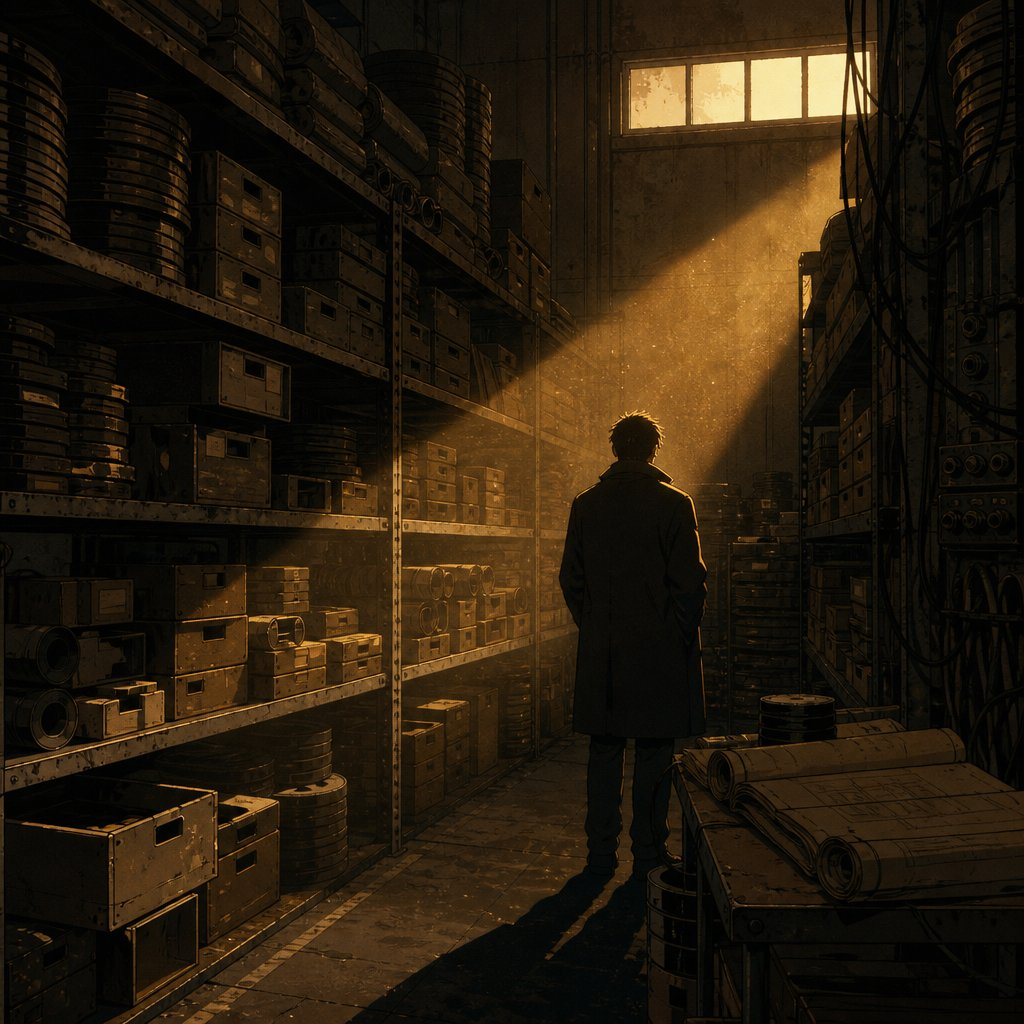
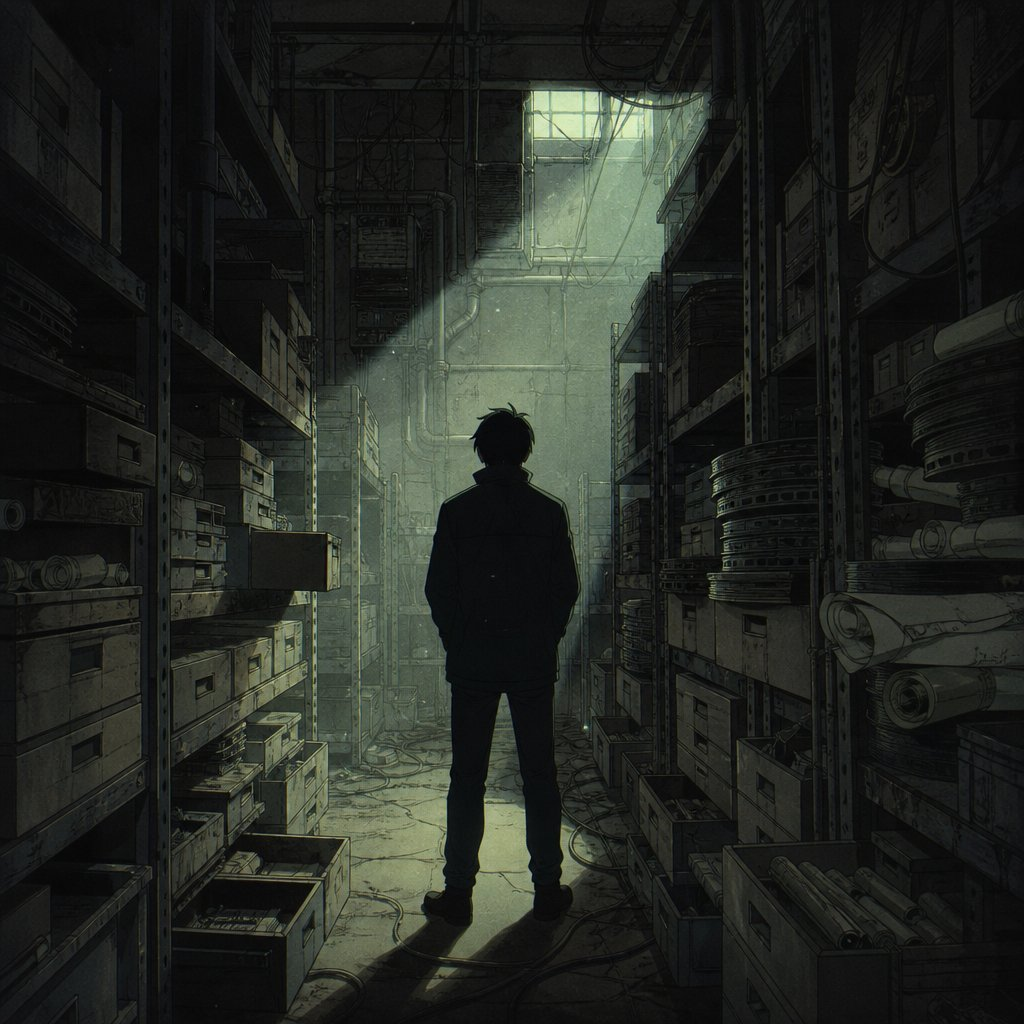
fix(unidad-2): guarda de PROHIBIDOS por limites de palabra, alt de las 7 laminas y paletas de eda/archivo sin competir con paginas vecinas

diff --git a/tools/test_ilustraciones.py b/tools/test_ilustraciones.py
@@ -5,6 +5,7 @@ representar a una persona real, a un rostro reconocible ni a un personaje con
 derechos.
 """
 import json
+import re
 from pathlib import Path
 
 from PIL import Image
@@ -63,10 +64,30 @@ def test_dimensiones_y_peso():
         assert ruta.stat().st_size < 400_000, f"{ruta.name} pesa demasiado"
 
 
+def _menciona(termino, texto):
+    """Coincidencia por limites de palabra: evita falsos positivos como
+    'mario' dentro de 'armario' o 'lain' dentro de 'polaina'."""
+    return re.search(rf"\b{re.escape(termino)}\b", texto) is not None
+
+
 def test_ningun_prompt_pide_persona_real_o_personaje_protegido():
     texto = json.dumps(catalogo(), ensure_ascii=False).lower()
     for termino in PROHIBIDOS:
-        assert termino not in texto, f"el catalogo menciona '{termino}'"
+        assert not _menciona(termino, texto), f"el catalogo menciona '{termino}'"
+
+
+def test_la_guarda_de_prohibidos_no_dispara_con_subcadenas_inocentes():
+    texto = "un armario metalico y unas polainas de cuero en el taller"
+    for termino in PROHIBIDOS:
+        assert not _menciona(termino, texto), (
+            f"'{termino}' disparo un falso positivo contra texto inocente"
+        )
+
+
+def test_la_guarda_de_prohibidos_si_dispara_con_una_obra_prohibida():
+    texto = "una escena inspirada en ghost in the shell"
+    disparo = any(_menciona(termino, texto) for termino in PROHIBIDOS)
+    assert disparo, "la guarda no detecto una obra prohibida citada de verdad"
 
 
 def test_ningun_prompt_pide_una_figura_humana_identificable():

diff --git a/course/2_pipeline_de_datos/_assets/CREDITOS.md b/course/2_pipeline_de_datos/_assets/CREDITOS.md
@@ -16,9 +16,10 @@ bordes duros, grano de película, aberración cromática leve y una sola fuente
 de luz dramática por lámina, con las figuras siempre de espaldas o en silueta,
 nunca de frente— pero **cada una lleva su propia paleta**, para que ninguna
 página se confunda con otra: verde terminal y ámbar en la portada, azul
-medianoche y turquesa en el viaje, magenta y violeta en ETL/ELT, cian de
-laboratorio en el EDA, rojo de alarma sobre gris hierro en la ruptura, latón y
-cobre en los oficios, sepia y ocre en el archivo.
+medianoche y turquesa en el viaje, magenta y violeta en ETL/ELT, blanco
+clínico y gris acero casi monocromo con un solo acento ámbar en el EDA, rojo
+de alarma sobre gris hierro en la ruptura, latón y cobre en los oficios, gris
+polvo y verde desvaído de fluorescente viejo en el archivo.
 
 **Ninguna ilustración representa personas reales, rostros reconocibles ni
 personajes con derechos**: todas son escenas industriales abstractas y
@@ -37,7 +38,7 @@ personajes con derechos**: todas son escenas industriales abstractas y
 | ilus-portada.jpg | Verde terminal y ámbar sobre una ciudad nocturna: un grafo de nodos luminosos que se bifurca y reconverge, no una tubería | Generada con gpt-image-2 a partir de `tools/ilustraciones.json` | Material del curso |
 | ilus-viaje.jpg | Azul medianoche y turquesa: cuatro edificios-depósito de arquitectura distinta, el mismo caudal de luz entrando de forma diferente en cada uno | Generada con gpt-image-2 a partir de `tools/ilustraciones.json` | Material del curso |
 | ilus-etl-elt.jpg | Magenta y violeta sobre carbón: un cruce de neón con dos rutas espejadas que recorren las mismas tres estaciones en orden invertido | Generada con gpt-image-2 a partir de `tools/ilustraciones.json` | Material del curso |
-| ilus-eda.jpg | Cian frío y blanco azulado: una figura de espaldas ante un muro de monitores CRT, midiendo antes de decidir | Generada con gpt-image-2 a partir de `tools/ilustraciones.json` | Material del curso |
+| ilus-eda.jpg | Blanco clínico y gris acero casi monocromo, con un solo acento ámbar en las lecturas: una figura de espaldas ante un muro de monitores CRT, midiendo antes de decidir | Generada con gpt-image-2 a partir de `tools/ilustraciones.json` | Material del curso |
 | ilus-ruptura.jpg | Gris hierro con rojo de alarma: un cable troncal reventado con la luz escapando, y la sala de control detrás en alerta | Generada con gpt-image-2 a partir de `tools/ilustraciones.json` | Material del curso |
 | ilus-oficios.jpg | Latón, cobre y madera cálida: siete estaciones de trabajo contiguas, cada una con su instrumental distinto, sin nadie en ellas | Generada con gpt-image-2 a partir de `tools/ilustraciones.json` | Material del curso |
-| ilus-archivo.jpg | Sepia y ocre desaturado: un archivo polvoriento de cintas y planos, luz de tarde atravesando el polvo | Generada con gpt-image-2 a partir de `tools/ilustraciones.json` | Material del curso |
+| ilus-archivo.jpg | Gris polvo y verde desvaído de fluorescente viejo: un archivo polvoriento de cintas y planos, un haz de luz atravesando el polvo | Generada con gpt-image-2 a partir de `tools/ilustraciones.json` | Material del curso |

diff --git a/course/2_pipeline_de_datos/1_el_viaje/0_index.md b/course/2_pipeline_de_datos/1_el_viaje/0_index.md
@@ -12,7 +12,7 @@ prerequisites: [pipeline-de-datos]
 # El viaje de los datos
 
 ::: figure {#ilus-viaje title="Cada escala guarda el mismo caudal de otra manera"}
-![Cuatro depósitos industriales de forma distinta —una cisterna sellada, un estanque abierto, un silo de compartimentos y un tanque híbrido— conectados por tuberías que llevan el mismo caudal luminoso](../_assets/ilus-viaje.jpg)
+![Cuatro edificios-depósito de arquitectura distinta iluminados de turquesa, cada uno conteniendo la misma luz de forma diferente, con una silueta de pie frente a ellos](../_assets/ilus-viaje.jpg)
 :::
 
 ## En corto

diff --git a/course/2_pipeline_de_datos/4_cuando_se_rompe/0_index.md b/course/2_pipeline_de_datos/4_cuando_se_rompe/0_index.md
@@ -12,7 +12,7 @@ prerequisites: [etl-y-elt]
 # Cuando se rompe
 
 ::: figure {#ilus-ruptura title="Toda fractura tiene su collarín de reparación"}
-![Tubería principal fracturada por la mitad con el caudal luminoso escapando por la grieta, y junto a ella un collarín de reparación con bridas y tornillos listos para cerrarla](../_assets/ilus-ruptura.jpg)
+![Un cable troncal metálico reventado con chispas y luz roja escapando, y detrás, tras un cristal, una sala de control en penumbra con luces de alarma y una silueta de espaldas](../_assets/ilus-ruptura.jpg)
 :::
 
 ## En corto

diff --git a/course/2_pipeline_de_datos/5_posiciones/0_index.md b/course/2_pipeline_de_datos/5_posiciones/0_index.md
@@ -12,7 +12,7 @@ prerequisites: [cuando-se-rompe]
 # Posiciones
 
 ::: figure {#ilus-oficios title="Siete estaciones, siete instrumentales distintos"}
-![Taller industrial vacío con siete estaciones de trabajo contiguas, cada una con su banco y su tablero de herramientas colgadas: llaves, manómetros, soldadura, instrumentos de medición](../_assets/ilus-oficios.jpg)
+![Siete estaciones de trabajo contiguas en un taller vacío, cada una con su banco, su lámpara colgante y su instrumental propio, sin ninguna persona](../_assets/ilus-oficios.jpg)
 :::
 
 ## En corto

diff --git a/course/2_pipeline_de_datos/2_etl_elt/0_index.md b/course/2_pipeline_de_datos/2_etl_elt/0_index.md
@@ -12,7 +12,7 @@ prerequisites: [el-viaje-de-los-datos]
 # ETL y ELT
 
 ::: figure {#ilus-etl-elt title="Las mismas estaciones, recorridas en orden invertido"}
-![Dos rutas de tubería paralelas que atraviesan las mismas tres estaciones en orden opuesto, una imagen especular de la otra](../_assets/ilus-etl-elt.jpg)
+![Vista aérea de un cruce industrial dividido por una línea horizontal, la misma disposición reflejada en magenta arriba y violeta abajo, con una silueta de espaldas contemplándolo](../_assets/ilus-etl-elt.jpg)
 :::
 
 ## En corto

diff --git a/course/2_pipeline_de_datos/0_index.md b/course/2_pipeline_de_datos/0_index.md
@@ -11,7 +11,7 @@ tags: [pipeline, dag, mapa-del-curso]
 # Pipeline de datos
 
 ::: figure {#ilus-portada title="Un pipeline es lo que vuelve a correr mañana"}
-![Circuito industrial cerrado de tuberías y válvulas donde el caudal luminoso sale por un extremo y vuelve a entrar por el otro, recorriendo el mismo trazo una y otra vez](_assets/ilus-portada.jpg)
+![Grafo de nodos luminosos verdes y ámbar que se bifurca y reconverge sobre una ciudad nocturna, con una silueta de espaldas en primer plano](_assets/ilus-portada.jpg)
 :::
 
 ## En corto

diff --git a/course/2_pipeline_de_datos/6_presentacion/0_index.md b/course/2_pipeline_de_datos/6_presentacion/0_index.md
@@ -12,7 +12,7 @@ prerequisites: [pipeline-de-datos]
 # Presentación
 
 ::: figure {#ilus-archivo title="Material histórico, conservado y consultable"}
-![Estantería de archivo metálica con cajones abiertos, carretes de microfilm, planos enrollados y láminas apiladas cubiertas de una capa fina de polvo](../_assets/ilus-archivo.jpg)
+![Silueta de espaldas de pie en un archivo polvoriento entre estanterías de cintas y planos enrollados, atravesada por un haz de luz de tarde](../_assets/ilus-archivo.jpg)
 :::
 
 ## En corto

diff --git a/course/2_pipeline_de_datos/3_eda/0_index.md b/course/2_pipeline_de_datos/3_eda/0_index.md
@@ -12,7 +12,7 @@ prerequisites: [etl-y-elt]
 # EDA
 
 ::: figure {#ilus-eda title="Inspeccionar el material antes de confiar en él"}
-![Tramo de tubería transparente abierto sobre una mesa de inspección iluminada, rodeado de lentes de aumento y calibradores que examinan el caudal antes de dejarlo seguir](../_assets/ilus-eda.jpg)
+![Silueta de espaldas frente a un muro curvo de monitores CRT, cada uno con una gráfica o lectura distinta](../_assets/ilus-eda.jpg)
 :::
 
 ## En corto
